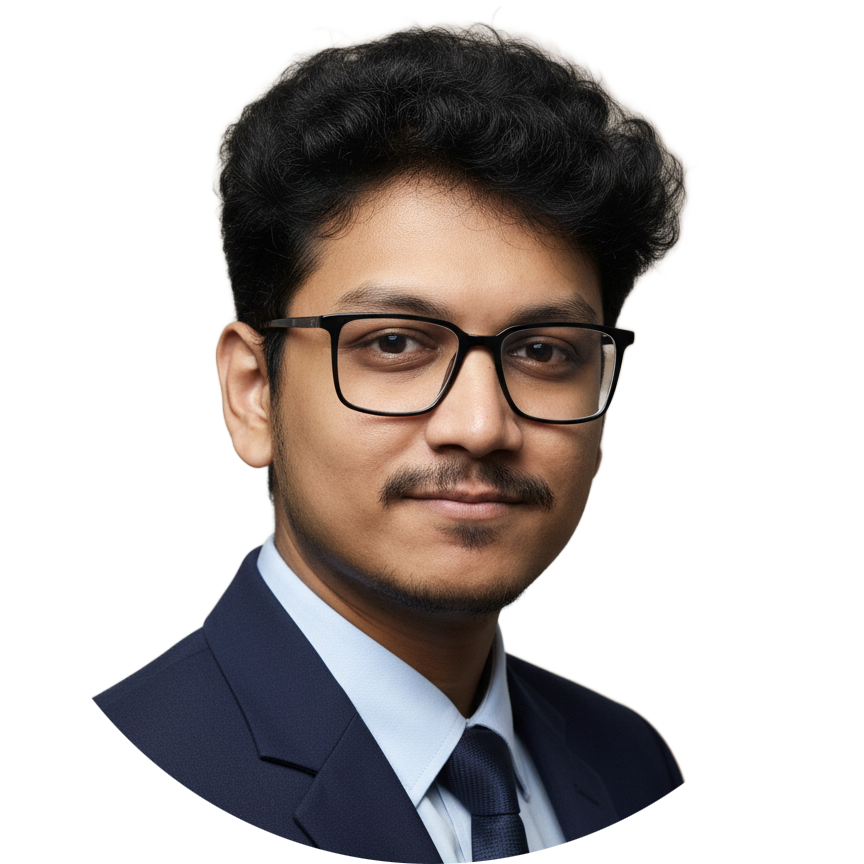
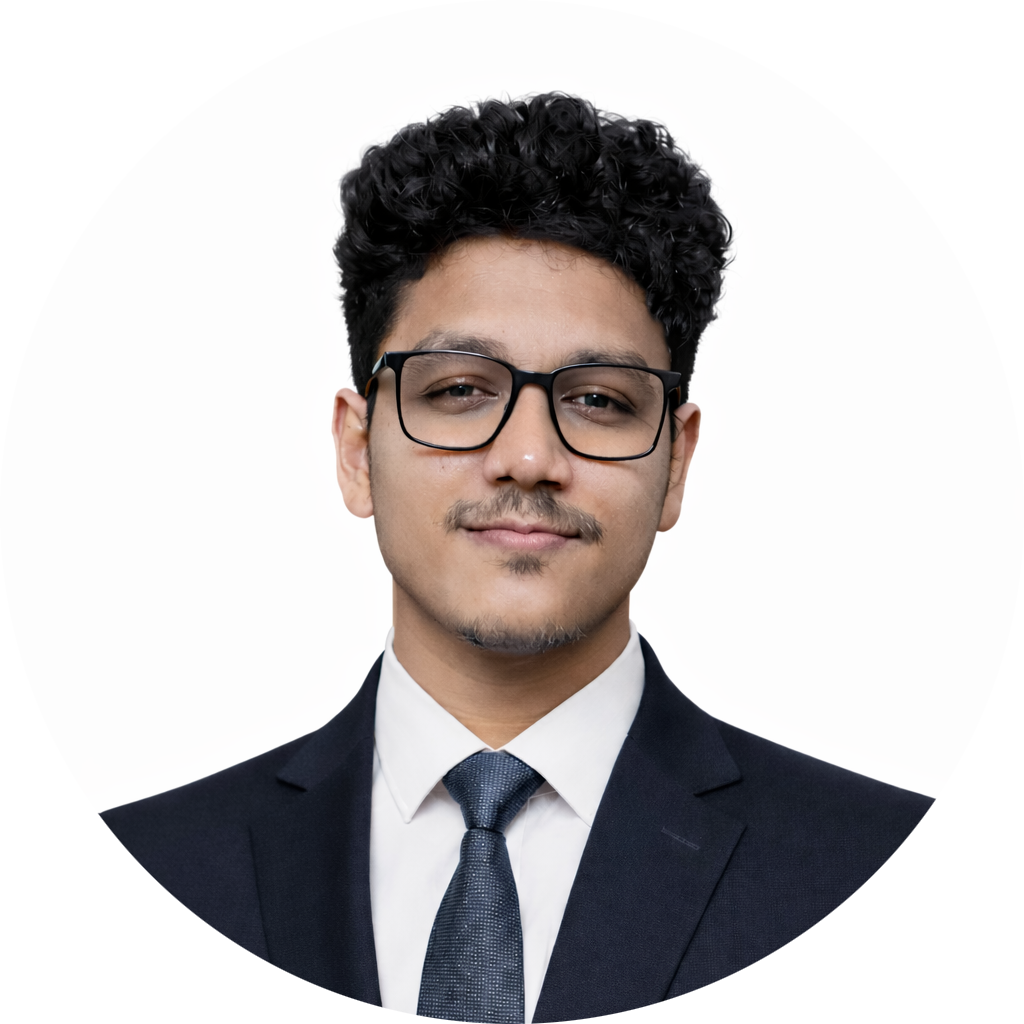
Add Publications section and fix some stuff

diff --git a/index.html b/index.html
@@ -22,7 +22,7 @@
 					<header id="header" class="alt">
 						<h1>Md Shahriar Sajid</h1>
 							<ul class="icons">
-								<li><a href="mailto:sajidshahriar72543@gmail" class="icon fa-envelope alt"><span class="label">Email</span></a>
+								<li><a href="mailto:sajidshahriar72543@gmail.com" class="icon fa-envelope alt"><span class="label">Email</span></a>
 								</li>
 								<li><a href="https://www.github.com/sajidshahriar72543" target="_blank" class="icon brands fa-github alt"><span
 											class="label">GitHub</span></a></li>
@@ -38,7 +38,8 @@
 						<ul>
 							<li><a href="#intro" class="active">About Me</a></li>
 							<li><a href="#first">Education</a></li>
-							<li><a href="#second">Experience</a></li>
+							<li><a href="#second">Publications</a></li>
+							<li><a href="#third">Experience</a></li>
 						</ul>
 					</nav>
 
@@ -55,7 +56,7 @@
 										<p>Educator and aspiring researcher with a B.Sc. in Electrical and Computer Engineering from RUET, with interests in computer
 										vision, AI, and image processing. I have hands-on experience in machine learning, Android development, and programming
 										in Python and C/C++, and I currently focus on teaching, mentoring, and developing impactful research.<br><br>
-										<b>I am actively seeking PhD opportunities<b></p>
+										<b>I am actively seeking Master's/PhD opportunities<b></p>
 									</div>
 									<span class="image"><img src="images/photo.png" alt="" /></span>
 								</div>
@@ -70,16 +71,30 @@
 									<li>
 										<h3>B.Sc. in Electrical and Computer Engineering</h3>
 										<p>Rajshahi University of Engineering & Technology (RUET), Bangladesh</p>
-										<h3>Higher Secondary Certificate</h3>
+										<!-- <h3>Higher Secondary Certificate</h3>
 										<p>BAF Shaheen Colege Dhaka, Bangladesh</p>
 										<h3>Secondary School Certificate</h3>
-										<p>Monipur High School, Dhaka, Bangladesh</p>
+										<p>Monipur High School, Dhaka, Bangladesh</p> -->
+									</li>
+								</ul>
+							</section>
+
+							<!-- Second Section -->
+							<section id="second" class="main special">
+								<header class="major">
+									<h2>Publications</h2>
+								</header>
+								<ul class="features">
+									<li>
+										<a href="https://ieeexplore.ieee.org/abstract/document/10629638/" target="_blank">Privacy preserving machine learning model personalization through federated personalized learning</a>
+									<br><br>
+									<a href="https://arxiv.org/abs/2512.22172" target="_blank">PaperNet: Efficient Temporal Convolutions and Channel Residual Attention for EEG Epilepsy Detection</a>
 									</li>
 								</ul>
 							</section>
 
 						<!-- Second Section -->
-							<section id="second" class="main special">
+							<section id="third" class="main special">
 								<header class="major">
 									<h2>Experience</h2>
 								</header>

diff --git a/assets/css/main.css b/assets/css/main.css
@@ -121,7 +121,7 @@ input, select, textarea {
 /* Type */
 
 	body {
-		background-color: #935d8c;
+		background-color: #000000;
 		color: rgba(255, 255, 255, 0.65);
 	}
 
